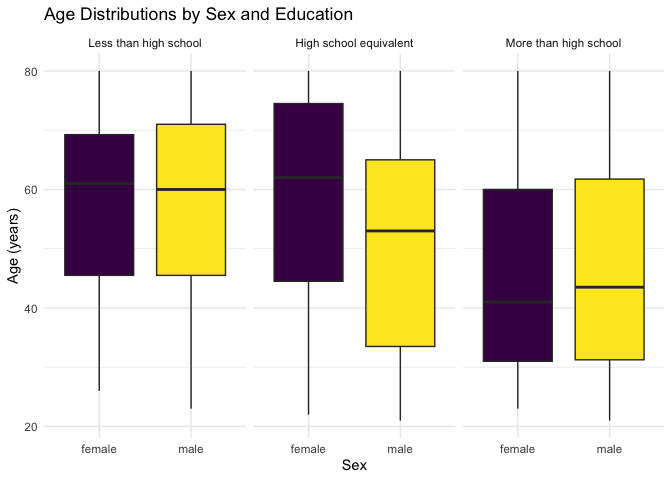
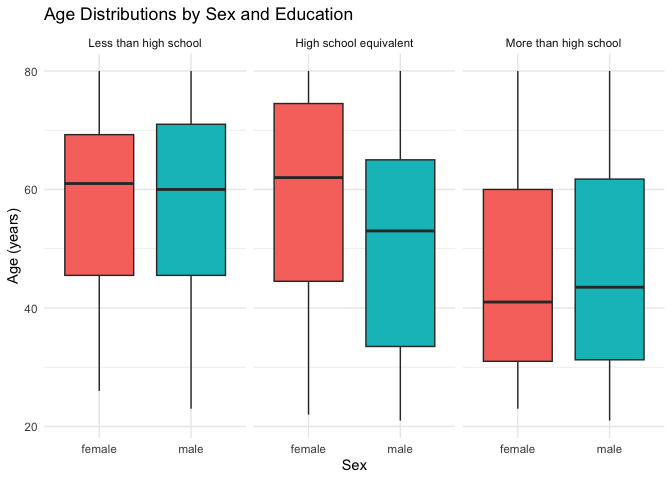
Finished problem 3. Need to check over answers later.

Changed region(s): [[0.4062, 0.2188, 0.6562, 0.7188], [0.7188, 0.375, 0.9688, 0.75], [0.0938, 0.25, 0.3438, 0.5938]]

diff --git a/p8105_hw3_mts2203.md b/p8105_hw3_mts2203.md
@@ -278,7 +278,6 @@ nhanes_df |>
   ggplot(aes(x = sex, y = age, fill = sex)) +
   geom_boxplot() +
   facet_grid(.~ education) +
-  viridis::scale_fill_viridis(discrete = TRUE) +
   labs(
     title = "Age Distributions by Sex and Education",
     x = "Sex",
@@ -441,13 +440,14 @@ variables include ride_id, rideable_type, weekdays, duration,
 start_station_name, end_station_name, member_casual, month, year. The
 variables have the following data types, respectively: character,
 character, character, numeric, character, character, character, factor,
-integer
+integer.
 
 ## Producing a reader-friendly table of rides per year, month and rider type
 
 ``` r
 # producing a reader-friendly table of rides per year, month, and rider type
-nyc_citi_bike_df |>
+nyc_citi_bike_reader_friendly_df = 
+  nyc_citi_bike_df |>
   count(year, month, member_casual) |>
   pivot_wider(
     names_from = member_casual,
@@ -460,11 +460,99 @@ nyc_citi_bike_df |>
   )
 ```
 
-| Year | Month   | Casual Riders | Members |
-|-----:|:--------|--------------:|--------:|
-| 2020 | January |           984 |   11436 |
-| 2020 | July    |          5637 |   15411 |
-| 2024 | January |          2108 |   16753 |
-| 2024 | July    |         10894 |   36262 |
+## Commenting on the table of rides per year, month and rider type
 
-Total Citi Bike Rides by Year, Month, and Rider Type
+The reader-friendly `nyc_citi_bike_reader_friendly_df` table has rows
+and columns. Its key (column) variables include . The variables have the
+following data types, respectively: character, character, character,
+character, character, character, character, character. July 2024 has the
+largest number of both casual riders and Citi Bike members. Generally,
+July has higher numbers than January. This is likely because people ride
+more Citi Bikes in the summer than in the winter. The summer is also
+likely a higher tourist season, which would also boost the number of
+casual riders. The COVID-19 pandemic may be accounting for the much
+lower summer numbers in 2020, than in 2024. Members vastly outpace
+casual riders in all months.
+
+## Making a table showing the 5 most popular starting stations for July 2024
+
+``` r
+# making a table of the 5 most popular starting stations for July 2024
+nyc_citi_bike_df |>
+  filter(year == 2024, month == "July") |>
+  count(start_station_name, sort = TRUE) |>
+  head(5) |>
+  knitr::kable(
+    col.names = c("Starting Station", "Number of Rides"),
+    caption = "Top 5 Most Popular Citi Bike Starting Stations, July 2024",
+    format.args = list(big.mark = ","),
+    align = "c"
+  )
+```
+
+|     Starting Station     | Number of Rides |
+|:------------------------:|:---------------:|
+| Pier 61 at Chelsea Piers |       163       |
+| University Pl & E 14 St  |       155       |
+|     W 21 St & 6 Ave      |       152       |
+|  West St & Chambers St   |       150       |
+|     W 31 St & 7 Ave      |       146       |
+
+Top 5 Most Popular Citi Bike Starting Stations, July 2024
+
+## Making a plot to investigate time span’s effects on median ride duration
+
+``` r
+# plotting the median ride duration by day of week, month, and year
+nyc_citi_bike_df |>
+  group_by(year, month, weekdays) |>
+  summarize(
+    median_duration = median(duration, na.rm = TRUE),
+    .groups = "drop"
+  ) |>
+  ggplot(
+    aes(x = weekdays, y = median_duration, group = 1)
+  ) +
+  geom_line() +
+  geom_point() +
+  facet_grid(rows = vars(year), cols = vars(month)) +
+  labs(
+    title = "Median Citi Bike Ride Duration by Day of Week, Month, and Year",
+    x = "Day of Week",
+    y = "Median Ride Duration"
+  ) +
+  theme_minimal()
+```
+
+![](p8105_hw3_mts2203_files/figure-gfm/time_span_effects_on_median_ride_duration_plot-1.png)<!-- -->
+
+## Commenting on observations about median ride duration by timespan plot
+
+The `nyc_citi_bike_df` plot shows that weekend ride duration is
+generally higher on average and July ride duration is higher than
+average, and 2020 ride duration is generally higher on average. Higher
+ride duration in July might reflect seasonal differences. Altogether,
+the highest ride duration is on weekends in July 2020.
+
+## Making figure of month, membership status, and bike type on ride duration
+
+``` r
+# plotting figure of month, membership status, and bike type on ride duration
+nyc_citi_bike_df |>
+  filter(year == 2024, duration > 0) |>
+  ggplot(aes(x = rideable_type, y = duration, fill = rideable_type)) +
+  geom_boxplot(outlier.alpha = 0.2) +
+  facet_grid(rows = vars(month), cols = vars(member_casual)) +
+  scale_y_log10() +
+  labs(
+    title = "Ride Duration by Month, Membership Status, and Bike Type in 2024",
+    x = "Bike Type",
+    y = "Ride Duration (log scale)"
+  ) +
+  theme_minimal() +
+  theme(
+    legend.position = "none"
+  )
+```
+
+![](p8105_hw3_mts2203_files/figure-gfm/month_membership_bike_duration_plot-1.png)<!-- -->
